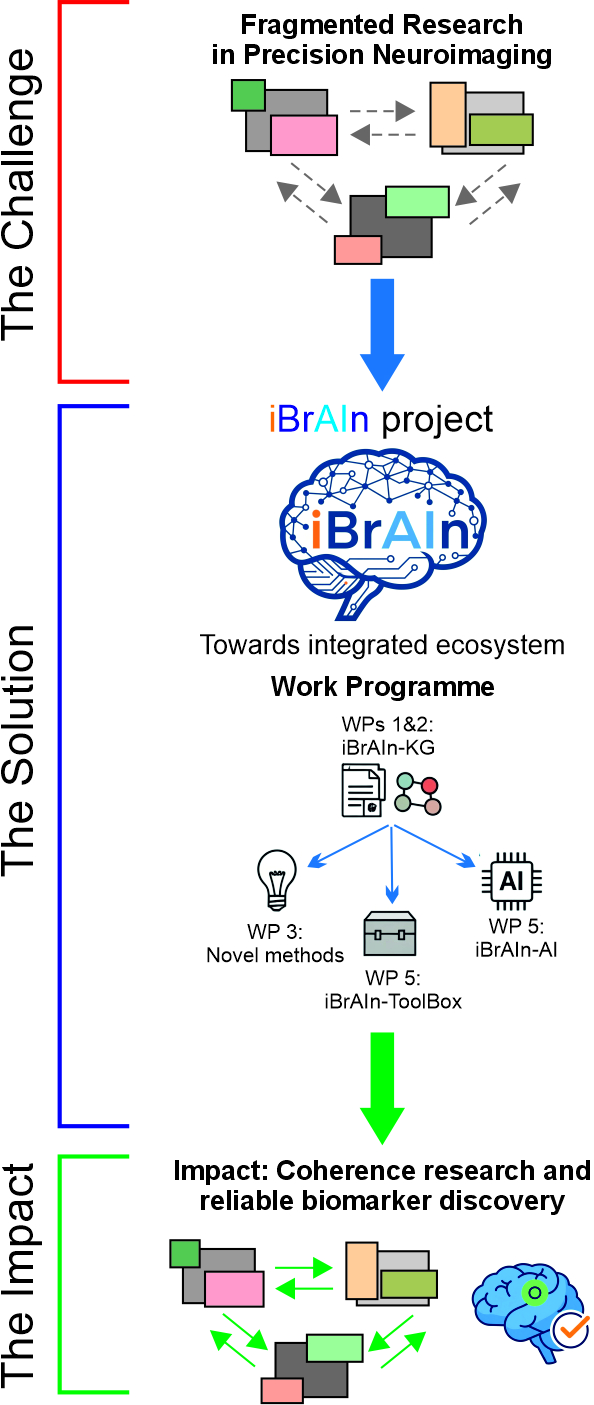
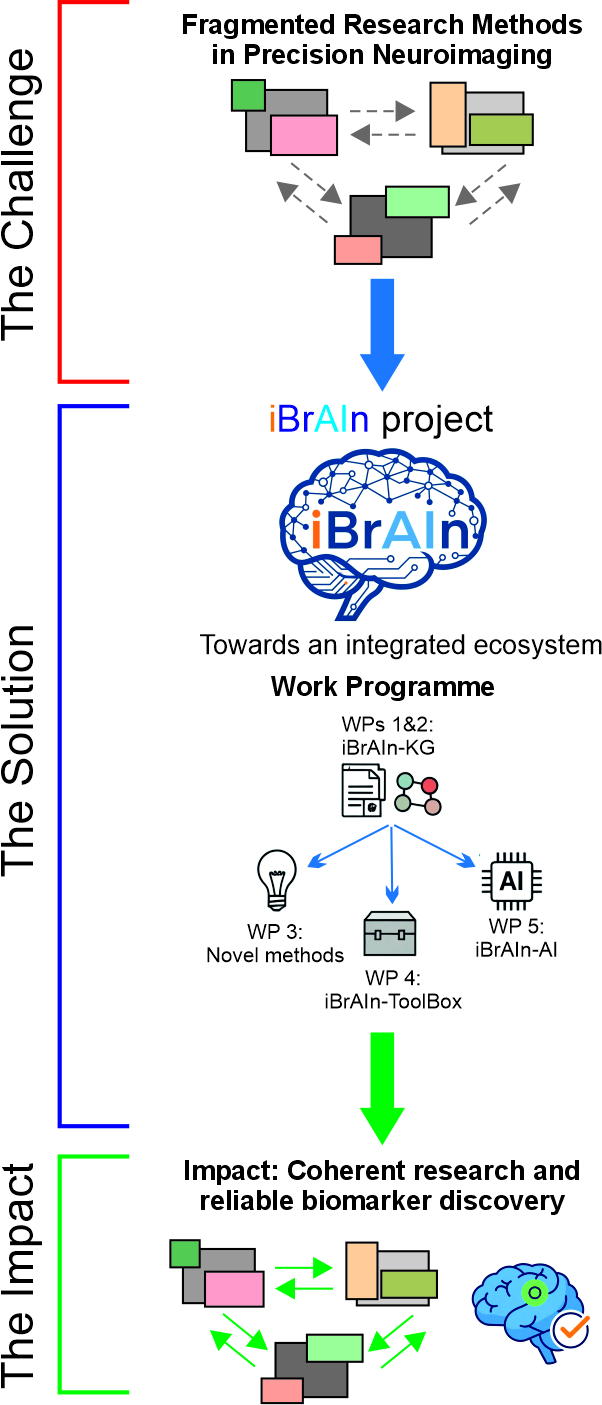
Update contents

diff --git a/iBrAIn.html b/iBrAIn.html
@@ -1,15 +1,6 @@
 <!DOCTYPE html>
 <html lang="en">
 <head>
-    <!-- Visualization & Content Choices:
-        - Hero: Text + Static HTML/CSS visualization of iBrAIn concept. Goal: Inform/Engage. Interaction: Static.
-        - Challenge: Text + HTML/CSS diagram of silos. Goal: Inform. Interaction: Static.
-        - Solution Overview: Text. Goal: Inform.
-        - iBrAIn Ecosystem: Tabbed interface for KG, AI, ToolBox, Novel Methods. Each tab has text + icons/simple diagrams. Goal: Organize/Inform. Interaction: Tab selection (JS).
-        - Work Packages: Interactive HTML/CSS flowchart using flexbox for better wrapping. Goal: Organize/Inform. Interaction: Click to highlight/detail (JS).
-        - Impact: Text + Conceptual graph (Chart.js). Goal: Inform. Interaction: Static.
-        No SVG/Mermaid used. All diagrams are HTML/CSS based.
-        -->
     <meta charset="UTF-8">
     <meta name="viewport" content="width=device-width, initial-scale=1.0">
     <title>iBrAIn Project: Interactive Project Explorer</title>
@@ -70,7 +61,7 @@
         .tab-content.active {
             display: block;
         }
-        .wp-node {
+        .wp-node-display { /* Common styling for WP display blocks in new layout */
             background-color: #f0f9ff; /* sky-50 */
             border: 2px solid #38bdf8; /* sky-400 */
             padding: 1rem;
@@ -78,30 +69,19 @@
             text-align: center;
             cursor: pointer;
             transition: transform 0.2s, box-shadow 0.2s;
-            min-height: 100px;
+            min-height: 80px; 
             display: flex;
             flex-direction: column;
             justify-content: center;
-            flex-grow: 0; 
-            flex-shrink: 0; 
-            min-width: 150px; 
+            align-items: center;
         }
-        .wp-node:hover {
+        .wp-node-display:hover {
             transform: translateY(-5px);
             box-shadow: 0 10px 15px -3px rgba(0,0,0,0.1), 0 4px 6px -2px rgba(0,0,0,0.05);
         }
-        .wp-node.active {
+        .wp-node-display.active {
             border-color: #0284c7; /* sky-600 */
             box-shadow: 0 0 0 3px rgba(2, 132, 199, 0.5); 
-        }
-        .arrow-flex { 
-            display: flex;
-            align-items: center;
-            justify-content: center;
-            font-size: 1.75rem; 
-            color: #38bdf8; /* sky-400 */
-            padding: 0 0.75rem; 
-            flex-shrink: 0;
         }
         .chart-container {
             position: relative;
@@ -177,19 +157,18 @@
                     The <span class="ibrain-letter">I</span>ndividual <span class="ibrain-letter">Br</span>ain Project: Towards an <span class="ibrain-letter">A</span><span class="ibrain-letter">I</span>-powered knowledge graph to optimize the precision <span class="ibrain-letter">n</span>euroimaging research ecosystem
                 </h1>
                 <div class="card max-w-4xl mx-auto mb-8">
-                    <h2 class="text-2xl font-semibold text-sky-600 mb-4 text-center">Project at a Glance</h2>
-                    <p class="text-slate-600 mb-6 text-center">This interactive application provides an overview of the iBrAIn project, detailing the challenges it addresses, the innovative solutions proposed, its work plan, and the anticipated impact on precision neuroimaging. Navigate through the sections to explore the project in depth.</p>
+                    <h2 class="text-2xl font-semibold text-sky-600 mb-4 text-center">The Project at a Glance</h2>
+                    <p class="text-slate-600 mb-6 text-center">This application provides an overview of the iBrAIn project, detailing the challenges it addresses, the innovative solutions proposed, its work plan, and the anticipated impact on precision neuroimaging. Navigate through the sections to explore the project in depth.</p>
                     <img src="Overview.jpg" alt="iBrAIn Project Overview" class="mx-auto rounded-lg shadow-md mb-4 h-auto" style="max-width:400px;" />
                 </div>
-                <p class="text-slate-500">Use the navigation bar above to explore different facets of the iBrAIn project.</p>
+                <p class="text-slate-500">Use the navigation bar above to explore the iBrAIn project details.</p>
             </div>
         </section>
 
         <section id="challenge" class="section">
-            <h2 class="text-3xl font-bold text-sky-700 mb-6 text-center">The Challenge: A Fragmented Landscape</h2>
+            <h2 class="text-3xl font-bold text-sky-700 mb-6 text-center">The Challenge: The Fragmented Research Methods in Precision Neuroimaging</h2>
             <div class="card mb-6">
-                <p class="text-lg text-slate-600 mb-4">This section outlines the critical issues in current precision neuroimaging research that iBrAIn aims to address, primarily focusing on research fragmentation and its consequences.</p>
-                <p class="mb-4">Brain neuroimaging research using MRI faces a critical translational bottleneck. Despite aiming to establish reliable biomarkers by relating neuroimaging features to cognitive-behavioral phenotypes, findings are often plagued by a lack of replication and small effect sizes. This significantly hinders the translation of research findings into clinical applications.</p>
+                <p class="mb-4">Human brain neuroimaging using Magnetic Resonance Imaging (MRI) faces a critical translational bottleneck: efforts to establish reliable biomarkers are often hampered by a lack of replication and small effect sizes.</p>
                 <p class="mb-4">A promising response is the shift towards <strong class="text-sky-600">precision neuroimaging</strong>, which focuses on individualized rather than group-level brain features. While the quest for individuality has led to numerous MRI-based personalized methods, their development often occurs in silos, with limited systematic integration or comparative evaluation.</p>
                 <div class="flex flex-col md:flex-row items-center justify-center space-y-4 md:space-y-0 md:space-x-8 my-8 p-6 bg-stone-50 rounded-lg">
                     <div class="flex flex-col items-center p-4 bg-white shadow-lg rounded-lg border border-red-300">
@@ -259,20 +238,47 @@
         <section id="roadmap" class="section">
             <h2 class="text-3xl font-bold text-sky-700 mb-6 text-center">Project Roadmap: Work Packages</h2>
             <div class="card mb-6">
-                <p class="text-lg text-slate-600 mb-6 text-center">The iBrAIn project is structured into five interconnected work packages (WPs), each contributing to the overall objectives. Click on a WP to see more details.</p>
-                <div class="flex flex-wrap items-center justify-center gap-x-2 gap-y-4 mb-6">
-                    <div class="wp-node" data-wp="wp1">WP1: KG Node Curation</div>
-                    <div class="arrow-flex md:hidden">&darr;</div> <div class="arrow-flex hidden md:inline-flex">&rarr;</div>
-                    <div class="wp-node" data-wp="wp2">WP2: KG Edge & Cluster Definition</div>
-                    <div class="arrow-flex md:hidden">&darr;</div> <div class="arrow-flex hidden md:inline-flex">&rarr;</div>
-                    <div class="wp-node" data-wp="wp3">WP3: Novel Method Development</div>
-                    <div class="arrow-flex md:hidden">&darr;</div> <div class="arrow-flex hidden md:inline-flex">&rarr;</div>
-                    <div class="wp-node" data-wp="wp4">WP4: iBrAIn-ToolBox</div>
-                    <div class="arrow-flex md:hidden">&darr;</div> <div class="arrow-flex hidden md:inline-flex">&rarr;</div>
-                    <div class="wp-node" data-wp="wp5">WP5: iBrAIn-AI Tool</div>
+                <p class="text-lg text-slate-600 mb-6 text-center">The iBrAIn project is structured into five interconnected work packages (WPs), each contributing to the overall objectives. Click on a WP to learn more.</p>
+                
+                <div class="flex flex-col items-center space-y-4 py-4">
+                    <!-- WP1 & WP2 as foundational KG block -->
+                    <div class="wp-node-display w-full md:w-3/4 lg:w-1/2" data-wp="wp1_2">
+                        <span class="text-lg font-semibold">WP1 & WP2: Building the iBrAIn-KG</span>
+                        <div class="flex justify-center space-x-2 mt-1">
+                            <span class="text-2xl" title="WP1: KG Node Curation">&#x1F4DD;</span> <!-- Document/Data Icon -->
+                            <span class="text-2xl" title="WP2: KG Edge & Cluster Definition">&#x1F578;</span> <!-- Network Icon -->
+                        </div>
+                        <p class="text-sm text-slate-500 mt-1">Systematic Curation & Relationship Mapping</p>
+                    </div>
+
+                    <!-- Connector -->
+                    <div class="h-8 w-1 bg-sky-400 my-2"></div>
+
+                    <!-- WP3, WP4, WP5 branching out -->
+                    <div class="flex flex-col md:flex-row justify-around w-full space-y-4 md:space-y-0 md:space-x-4 px-2">
+                        <div class="flex flex-col items-center md:w-1/3">
+                            <div class="wp-node-display w-full" data-wp="wp3">
+                                <span class="text-lg font-semibold">WP3: Novel Methods</span>
+                                <span class="text-2xl mt-1">&#x1F4A1;</span> <!-- Lightbulb Icon -->
+                            </div>
+                        </div>
+                        <div class="flex flex-col items-center md:w-1/3">
+                             <div class="wp-node-display w-full" data-wp="wp4">
+                                <span class="text-lg font-semibold">WP4: iBrAIn-ToolBox</span>
+                                <span class="text-2xl mt-1">&#x1F9F0;</span> <!-- Toolbox Icon -->
+                            </div>
+                        </div>
+                        <div class="flex flex-col items-center md:w-1/3">
+                            <div class="wp-node-display w-full" data-wp="wp5">
+                                <span class="text-lg font-semibold">WP5: iBrAIn-AI Tool</span>
+                                 <span class="text-2xl mt-1">&#x1F9E0;</span> <!-- AI/Chip/Brain Icon -->
+                            </div>
+                        </div>
+                    </div>
                 </div>
-                 <div id="wp-details-container" class="mt-6 p-4 bg-stone-50 rounded-lg min-h-[100px]">
-                    <p class="text-slate-500 text-center">Select a Work Package above to learn more about its specific goals and methods.</p>
+
+                 <div id="wp-details-container" class="mt-8 p-6 bg-stone-100 rounded-lg min-h-[150px]">
+                    <p class="text-slate-500 text-center">Select a Work Package component above to learn more about its specific goals and methods.</p>
                 </div>
             </div>
         </section>
@@ -301,7 +307,7 @@
     </main>
 
     <footer class="bg-slate-800 text-stone-300 text-center p-6 mt-12">
-        <p>&copy; 2025 iBrAIn Project Interactive Explorer. Daniel Kristanto supported by Gemini AI.</p>
+        <p>&copy; 2025 iBrAIn Project Interactive Explorer. Daniel Kristanto, with assistance from Gemini AI.</p>
     </footer>
 
 <script>
@@ -333,41 +339,29 @@
             });
         });
 
-        showSection('hero'); // Show hero section by default
+        showSection('hero'); 
 
-        // Tabs functionality
         const tabButtons = document.querySelectorAll('.tab-button');
         const tabContents = document.querySelectorAll('.tab-content');
 
         tabButtons.forEach(button => {
             button.addEventListener('click', () => {
                 const targetTab = button.dataset.tab + '-content';
-
                 tabButtons.forEach(btn => btn.classList.remove('active'));
                 button.classList.add('active');
-
                 tabContents.forEach(content => {
-                    if (content.id === targetTab) {
-                        content.classList.add('active');
-                    } else {
-                        content.classList.remove('active');
-                    }
+                    content.classList.toggle('active', content.id === targetTab);
                 });
             });
         });
 
-        // Work Packages interactivity
-        const wpNodes = document.querySelectorAll('.wp-node');
+        const wpDisplayNodes = document.querySelectorAll('.wp-node-display');
         const wpDetailsContainer = document.getElementById('wp-details-container');
         
         const wpData = {
-            wp1: { 
-                title: "WP1: Systematic Identification and Curation of iBrAIn-KG Nodes", 
-                description: "This foundational package systematically identifies and deeply curates studies on MRI-based personalized methods, forming the initial iBrAIn-KG nodes. It involves a rigorous systematic knowledge analytics and an AI-supported, human-curated coding process to extract granular information about studies and methods, capturing metadata, data characteristics, methodological parameters, motivations, and outcomes. This deep curation provides a rich foundation for subsequent development."
-            },
-            wp2: { 
-                title: "WP2: Establishing iBrAIn-KG Edges and Clusters via Comparative Evaluation", 
-                description: "This WP defines the KG edges, representing associations among study-nodes. Edges encode explicit links (citations, methodological similarities) and quantitatively derived relationships from standardized benchmarking of MRI-based personalized methods across various datasets and criteria (test-retest reliability, data reconstructability, prediction performance). Cluster identification algorithms will group studies to enrich the KG and enable systematic understanding of the research landscape."
+            wp1_2: { 
+                title: "WPs 1 & 2: Building the iBrAIn-KG Foundation", 
+                description: "<strong>WP1 (Systematic Identification and Curation of iBrAIn-KG Nodes):</strong> This foundational package systematically identifies and deeply curates studies on MRI-based personalized methods, forming the initial iBrAIn-KG nodes. It involves a rigorous systematic knowledge analytics and an AI-supported, human-curated coding process to extract granular information about studies and methods, capturing metadata, data characteristics, methodological parameters, motivations, and outcomes. This deep curation provides a rich foundation for subsequent development. <br/><br/> <strong>WP2 (Establishing iBrAIn-KG Edges and Clusters via Comparative Evaluation):</strong> This WP defines the KG edges, representing associations among study-nodes. Edges encode explicit links (citations, methodological similarities) and quantitatively derived relationships from standardized benchmarking of MRI-based personalized methods across various datasets and criteria (test-retest reliability, data reconstructability, prediction performance). Cluster identification algorithms will group studies to enrich the KG and enable systematic understanding of the research landscape."
             },
             wp3: { 
                 title: "WP3: KG-Informed Development and Validation of Novel Individuality Methods", 
@@ -383,39 +377,40 @@
             }
         };
 
-        wpNodes.forEach(node => {
+        wpDisplayNodes.forEach(node => {
             node.addEventListener('click', function() {
-                wpNodes.forEach(n => n.classList.remove('active'));
+                wpDisplayNodes.forEach(n => n.classList.remove('active'));
                 this.classList.add('active');
                 const wpId = this.dataset.wp;
                 const data = wpData[wpId];
                 if (data) {
                     wpDetailsContainer.innerHTML = `
-                        <h4 class="text-xl font-semibold text-sky-700 mb-2">${data.title}</h4>
-                        <p class="text-slate-600">${data.description}</p>
+                        <h4 class="text-xl font-semibold text-sky-700 mb-3">${data.title}</h4>
+                        <p class="text-slate-600 text-sm leading-relaxed">${data.description}</p>
                     `;
+                } else {
+                     wpDetailsContainer.innerHTML = '<p class="text-slate-500 text-center">Details for this WP will be populated here.</p>';
                 }
             });
         });
         
-        // Impact Chart
         const ctxImpact = document.getElementById('impactChart');
         if (ctxImpact) {
             new Chart(ctxImpact.getContext('2d'), {
                 type: 'line',
                 data: {
-                    labels: ['Current State', 'Time 1', 'Time 2', 'Time 3'],
+                    labels: ['Current State', 'T1', 'T2', 'T3'],
                     datasets: [{
                         label: 'Research Coherence & Impact',
                         data: [30, 45, 65, 90],
-                        borderColor: '#10b981', // emerald-500
+                        borderColor: '#10b981', 
                         backgroundColor: 'rgba(16, 185, 129, 0.1)',
                         fill: true,
                         tension: 0.3
                     }, {
-                        label: 'Biomarker Discovery Rate',
+                        label: 'Reliable Biomarker Discovery Rate',
                         data: [20, 30, 50, 80],
-                        borderColor: '#0ea5e9', // sky-500
+                        borderColor: '#0ea5e9', 
                         backgroundColor: 'rgba(14, 165, 233, 0.1)',
                         fill: true,
                         tension: 0.3
@@ -424,23 +419,8 @@
                 options: {
                     responsive: true,
                     maintainAspectRatio: false,
-                    scales: {
-                        y: {
-                            beginAtZero: true,
-                            max: 100,
-                            title: { display: true, text: 'Relative Improvement / Rate (%)' }
-                        }
-                    },
-                    plugins: {
-                        legend: { position: 'top' },
-                        tooltip: {
-                            callbacks: {
-                                label: function(context) {
-                                    return `${context.dataset.label}: ${context.formattedValue}% (Conceptual)`;
-                                }
-                            }
-                        }
-                    }
+                    scales: { y: { beginAtZero: true, max: 100, title: { display: true, text: 'Relative Improvement / Rate (%)' } } },
+                    plugins: { legend: { position: 'top' }, tooltip: { callbacks: { label: function(context) { return `${context.dataset.label}: ${context.formattedValue}% (Conceptual)`; } } } }
                 }
             });
         }
